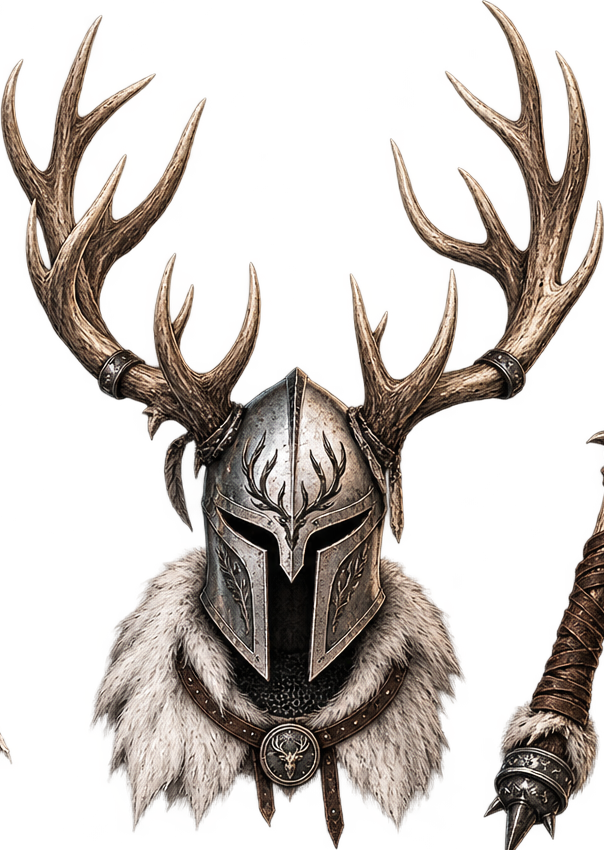
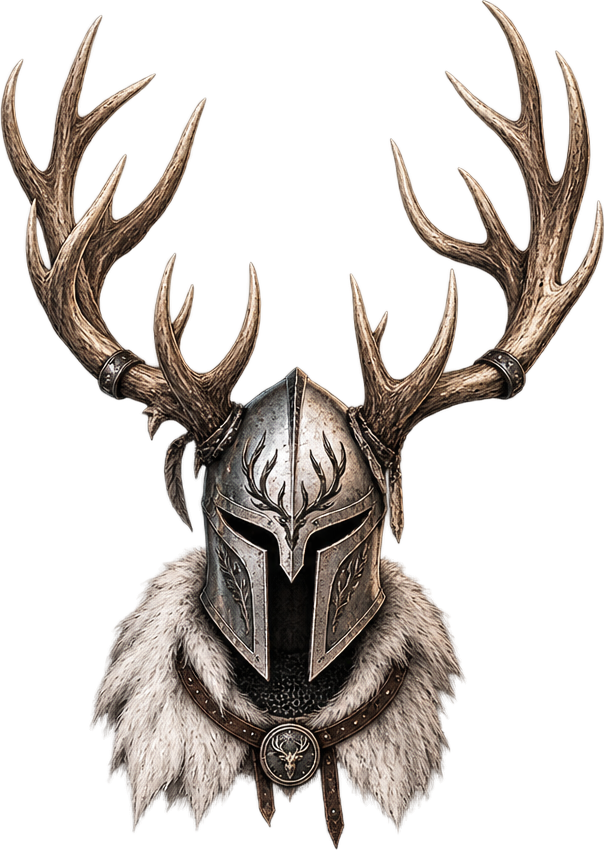
Add files via upload

Changed region(s): [[0.8046, 0.4894, 1.0, 1.0], [0.0, 0.8565, 0.0298, 0.8871]]

diff --git a/game.js b/game.js
@@ -3,7 +3,7 @@
 
   // R121 DEPLOYMENT VERIFICATION — harmless build marker.
   // If this line appears in DevTools, the browser is definitely running R121.
-  console.info("HDR BUILD R144 - WEISSER HIRSCH KIT STARTER VISIBILITY FIX");
+  console.info("HDR BUILD R145 - WHITE STAG KIT SLOT-ALIGNED THREE-PART VISUAL");
 
   const MAPS = Object.freeze({
     oberkirch: Object.freeze({
@@ -16685,12 +16685,15 @@
     page2Rect: Object.freeze({ x1: 252, y1: 713, x2: 490, y2: 772 }),
 
     // Painted top-left weapon equipment slot on the supplied inventory artwork.
-    // R143: blue marked weapon area is two painted boxes high.
+    // R143: blue marked Saukeule area remains two painted boxes high.
     weaponEquipRect: Object.freeze({ x1: 45, y1: 196, x2: 125, y2: 405 }),
-    // R143 white-stag kit equipment positions from supplied marked screenshot.
-    kitWeaponEquipRect: Object.freeze({ x1: 45, y1: 405, x2: 125, y2: 590 }),
-    kitArmorEquipRect: Object.freeze({ x1: 205, y1: 196, x2: 335, y2: 390 }),
-    kitHelmetEquipRect: Object.freeze({ x1: 370, y1: 205, x2: 465, y2: 330 })
+
+    // R145 WHITE STAG KIT — aligned directly to the marked painted equipment areas.
+    // Antler weapon spans ALL THREE left equipment boxes.
+    kitWeaponEquipRect: Object.freeze({ x1: 45, y1: 196, x2: 125, y2: 590 }),
+    // Armor and helmet are deliberately shifted downward versus R144.
+    kitArmorEquipRect: Object.freeze({ x1: 205, y1: 246, x2: 335, y2: 440 }),
+    kitHelmetEquipRect: Object.freeze({ x1: 370, y1: 255, x2: 465, y2: 380 })
   });
 
   let playerLevel = 1;
@@ -16976,9 +16979,56 @@
         cursor: pointer;
       }
 
-      .inventory-item--equipment-kit .inventory-item__icon {
-        width: 96%;
-        height: 96%;
+      /* R145: the unequipped White Stag kit is ONE logical 2x3 item,
+         but is drawn as three separate cut-out pieces on the exact painted cells:
+         left top = helmet (1 cell), left bottom = armor (2 cells),
+         right column = antler weapon (3 cells). */
+      .inventory-white-stag-kit-parts {
+        position:absolute;
+        inset:0;
+        z-index:3;
+        pointer-events:none;
+      }
+
+      .inventory-white-stag-kit-part {
+        position:absolute;
+        overflow:visible;
+        pointer-events:none;
+      }
+
+      .inventory-white-stag-kit-part img {
+        position:absolute;
+        inset:0;
+        width:100%;
+        height:100%;
+        object-fit:contain;
+        object-position:50% 50%;
+        display:block;
+        pointer-events:none;
+        filter:drop-shadow(0 2px 2px rgba(0,0,0,.72));
+      }
+
+      /* Parent 2x3 rect contains the small painted gaps between cells.
+         These percentages reproduce the actual 64px cells + raster gaps. */
+      .inventory-white-stag-kit-part--helmet {
+        left:0%;
+        top:0%;
+        width:47.76%;
+        height:31.25%;
+      }
+
+      .inventory-white-stag-kit-part--armor {
+        left:0%;
+        top:34.11%;
+        width:47.76%;
+        height:65.89%;
+      }
+
+      .inventory-white-stag-kit-part--weapon {
+        left:52.24%;
+        top:0%;
+        width:47.76%;
+        height:100%;
       }
 
       .inventory-item--equipment-kit:hover .inventory-kit-tooltip {
@@ -17045,13 +17095,14 @@
       }
 
       .inventory-kit-equip-icon {
-        position: absolute;
-        inset: 2%;
-        width: 96%;
-        height: 96%;
-        object-fit: contain;
-        pointer-events: none;
-        filter: drop-shadow(0 2px 2px rgba(0,0,0,.75));
+        position:absolute;
+        inset:0;
+        width:100%;
+        height:100%;
+        object-fit:contain;
+        object-position:50% 50%;
+        pointer-events:none;
+        filter:drop-shadow(0 2px 2px rgba(0,0,0,.75));
       }
 
       .inventory-item--equipped {
@@ -17375,6 +17426,35 @@
   }
 
 
+  function createWhiteStagKitInventoryVisual() {
+    const root = document.createElement("div");
+    root.className = "inventory-white-stag-kit-parts";
+
+    const parts = [
+      ["helmet", WHITE_STAG_KIT.helmetIcon],
+      ["armor", WHITE_STAG_KIT.armorIcon],
+      ["weapon", WHITE_STAG_KIT.weaponIcon]
+    ];
+
+    for (const [kind, src] of parts) {
+      const part = document.createElement("div");
+      part.className = `inventory-white-stag-kit-part inventory-white-stag-kit-part--${kind}`;
+
+      const img = document.createElement("img");
+      img.src = encodeURI(src);
+      img.alt = "";
+      img.draggable = false;
+      img.addEventListener("error", () => {
+        console.warn(`White Stag ${kind} inventory asset failed to load:`, src);
+      });
+
+      part.appendChild(img);
+      root.appendChild(part);
+    }
+
+    return root;
+  }
+
   function createWhiteStagKitTooltip() {
     const tooltip = document.createElement("div");
     tooltip.className = "inventory-kit-tooltip";
@@ -17530,6 +17610,9 @@
         const icon = document.createElement("div");
         icon.className = "inventory-item__penny";
         item.appendChild(icon);
+      } else if (stack.id === WHITE_STAG_KIT.id) {
+        // R145: NO combined kit symbol. The three real cut-outs occupy the 2x3 block.
+        item.appendChild(createWhiteStagKitInventoryVisual());
       } else if (stack.icon) {
         const icon = document.createElement("img");
         icon.className = "inventory-item__icon";
@@ -17538,10 +17621,6 @@
         icon.draggable = false;
         icon.addEventListener("error", () => {
           console.warn("Inventory icon failed to load:", stack.icon);
-          if (stack.id === WHITE_STAG_KIT.id) {
-            item.classList.add("inventory-item--asset-missing");
-            item.dataset.assetMissing = "WHITE STAG KIT";
-          }
         });
         item.appendChild(icon);
       }
